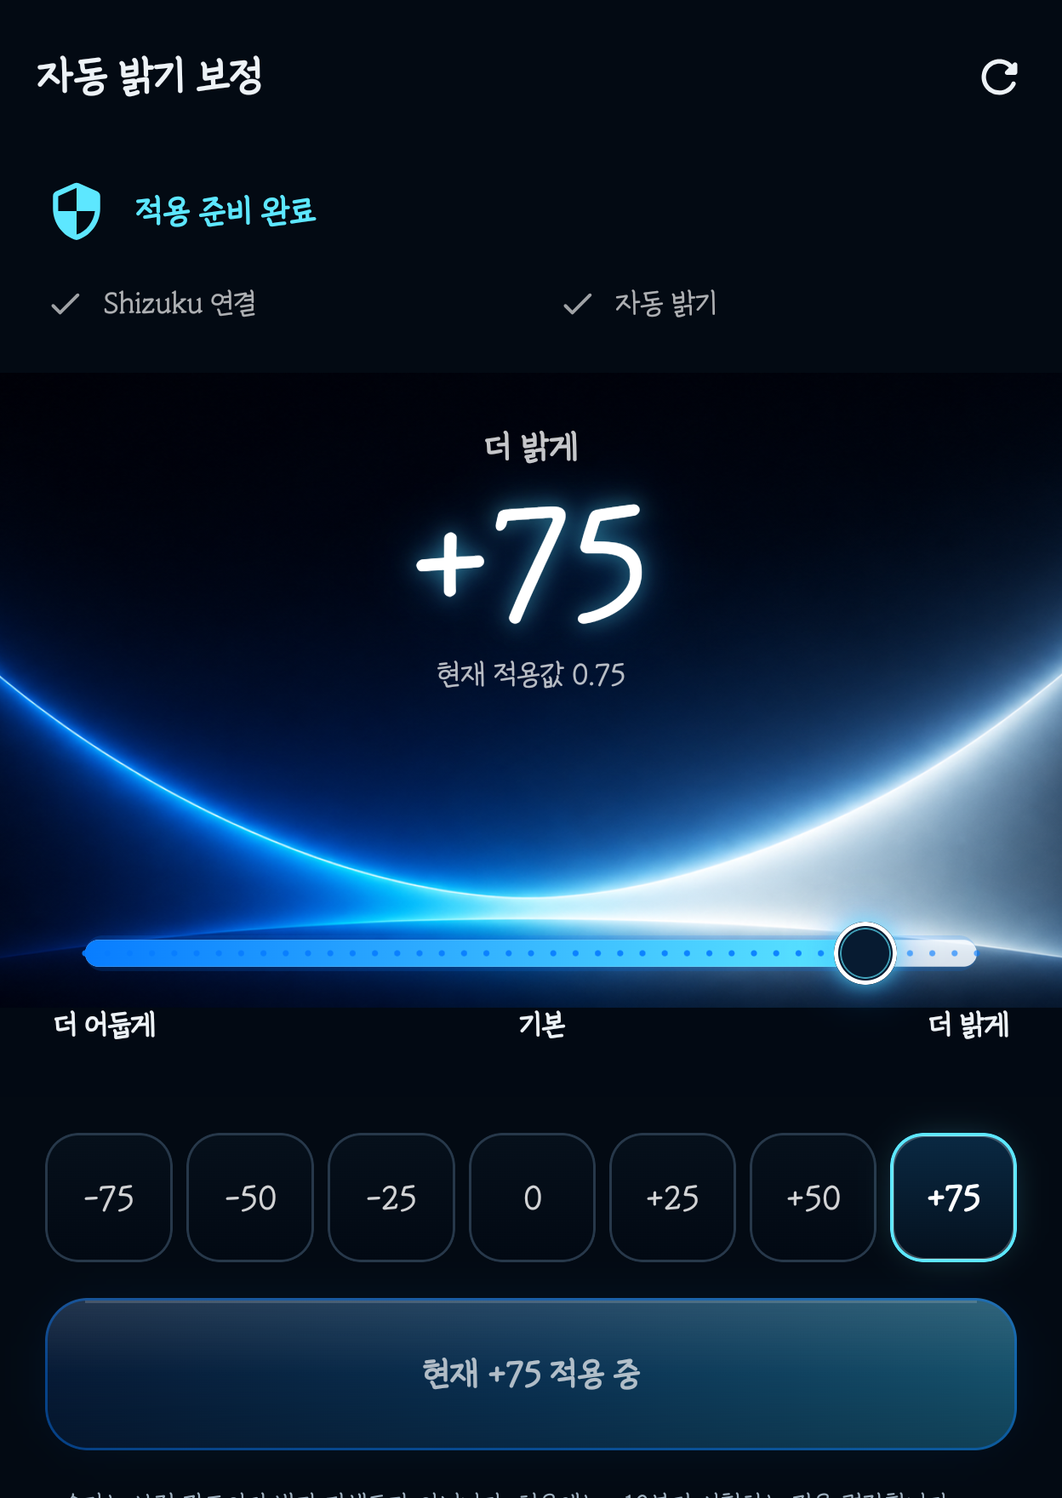
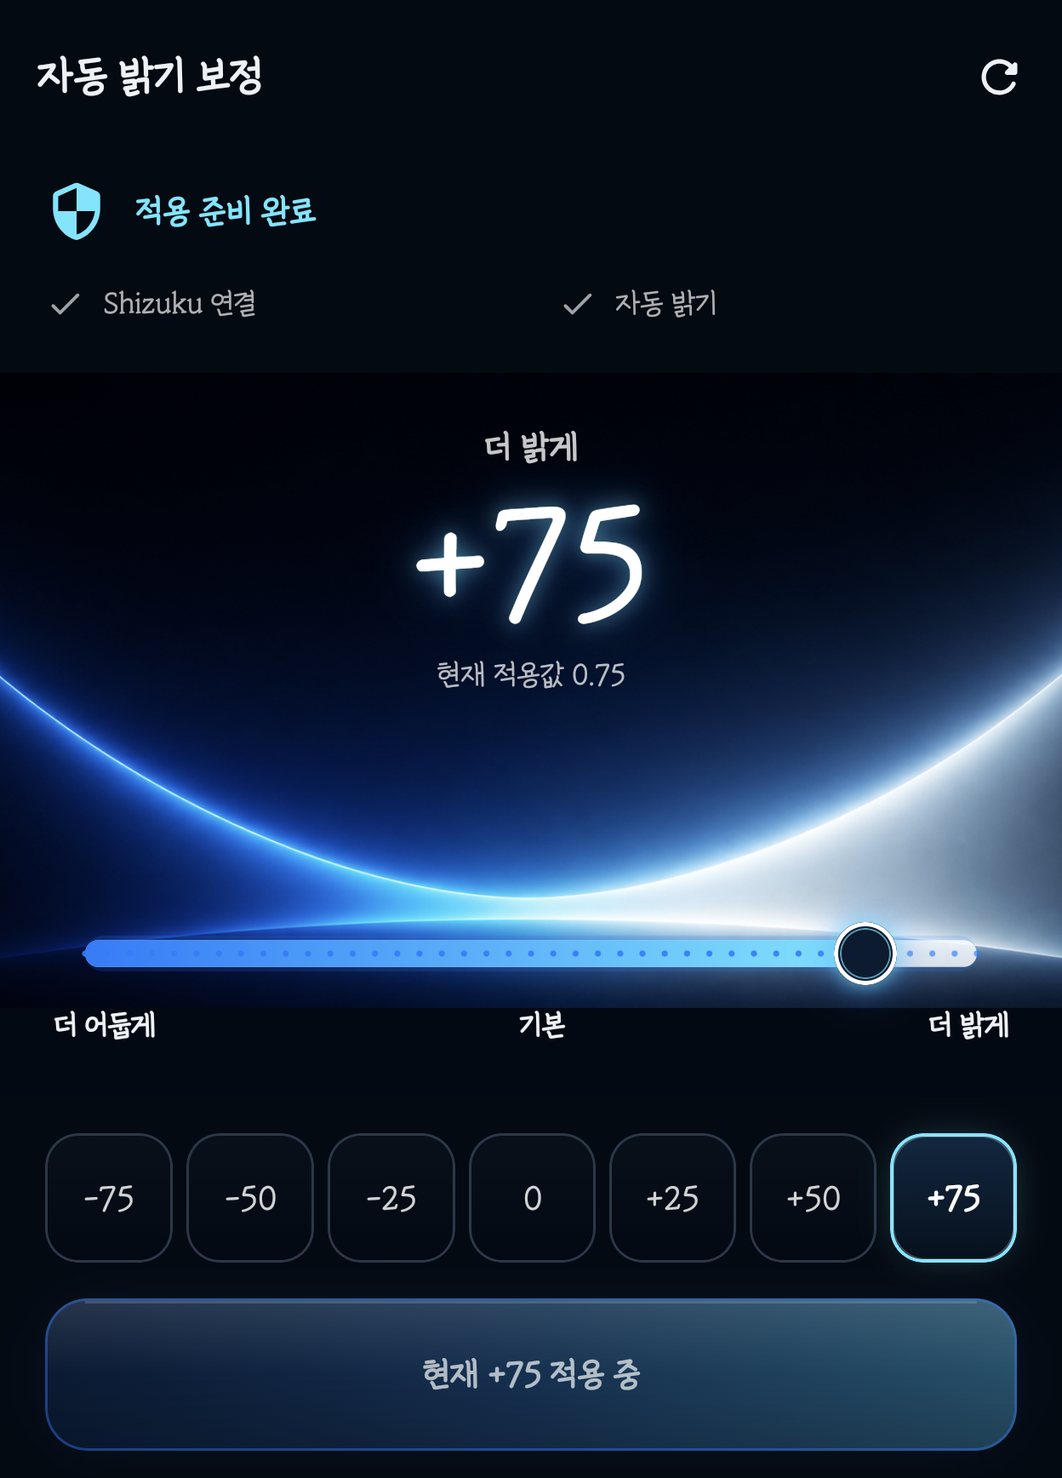
docs: complete v1.4.1 UI guide and screenshot verification

diff --git a/README.md b/README.md
@@ -9,8 +9,8 @@
   <img src="docs/images/app-home-en-v1.4.1.png" width="360" alt="Auto Brightness Offset English interface on Galaxy Z Fold8">
 </p>
 
-> 실제 Galaxy Z Fold8 화면입니다. 공개 이미지에서는 통신사·시간·알림·배터리·내비게이션 표시가 있는 시스템 영역만 잘랐습니다.<br>
-> These are real Galaxy Z Fold8 captures. Only the system status and navigation bars were cropped for privacy.
+> 실제 Galaxy Z Fold8의 v1.4.1 화면입니다. 시스템 상태·내비게이션 영역을 제외하고, 설명에 필요한 앱 영역만 원본 픽셀 그대로 잘랐습니다. 글꼴은 시험 단말의 시스템 글꼴입니다.<br>
+> Real v1.4.1 captures from a Galaxy Z Fold8. Crops exclude system bars and focus on the relevant app area without altering pixels. The screenshots use the test phone's system font.
 
 ## 한국어
 
@@ -62,6 +62,25 @@
 
 숫자는 화면 밝기 퍼센트가 아니라 **자동 밝기 곡선의 보정 강도**입니다. `0`을 적용하거나 `원래 값 복원`을 누르면 앱의 임시 보정이 해제되고 시스템 자동 밝기로 돌아갑니다.
 
+### 현재 UI와 버튼 상태
+
+v1.4.0에서 적용한 디자인을 v1.4.1에서도 사용하며, v1.4.1에는 연결 중단·복원 대기 표시가 추가됐습니다.
+
+- 숫자 이중 후광, 손잡이 후광, 손잡이 아래에서도 끊기지 않는 슬라이더
+- 숫자 뒤 중첩 사각형을 제거한 7단계 프리셋과 선택 테두리
+- 선택값을 바꿨을 때 밝게 표시되는 다층 그라데이션 적용 버튼
+- 선택값이 적용값과 같으면 `현재 +75 적용 중`처럼 표시하며 중복 적용을 막는 낮은 강조 상태
+- `보정 일시 중지`·`원래 값 복원 대기`는 정상 적용과 다른 문구·색으로 구분
+
+아래는 **0을 선택만 한 상태**입니다. 작은 `현재 적용값 0.75`가 실제 유지 중인 보정이고, 큰 `0`은 적용 대기 중인 선택값입니다. 밝은 버튼을 누르기 전까지 보정은 바뀌지 않습니다.
+
+<p align="center">
+  <img src="docs/images/app-select-offset-ko-v1.4.1.png" width="320" alt="v1.4.1 한국어: 0 선택, +75 적용 유지, 밝은 적용 버튼">
+  <img src="docs/images/app-select-offset-en-v1.4.1.png" width="320" alt="v1.4.1 English: zero selected, +75 still applied, enabled Apply button">
+</p>
+
+[화면별 상세 설명](docs/USER_GUIDE_KO.md#화면을-읽는-방법) · [현재 UI 검증 기록](design-qa.md)
+
 ### Wi-Fi 없는 야외 사용
 
 집에서 USB ADB로 Shizuku를 시작한 뒤에는 USB 케이블을 빼고 Wi-Fi와 무선 디버깅을 꺼도 Fold8에서 보정이 동작했습니다. 먼저 Shizuku와 이 앱을 모두 `배터리 → 제한 없음` 및 삼성의 `절전 상태로 전환하지 않을 앱`에 추가해야 합니다. 절전 예외 적용 뒤 Wi-Fi OFF 상태에서 화면을 켠 백그라운드 3분과 화면 잠금·재점등 시험을 통과했습니다.
@@ -91,7 +110,7 @@
 | 아이콘 축소판 설치·표시 | PASS |
 | Shizuku 중지 시 일시 중지·반복 오류 차단 | PASS |
 | 연결 끊김 중 복원 예약 → Shizuku 재시작·앱 열기 → 자동 복원 | PASS |
-| USB 시작 후 Wi-Fi·무선 디버깅 OFF 운용 | PASS |
+| 두 앱 절전 예외 후 Wi-Fi·무선 디버깅 OFF 운용 | PASS, 백그라운드 3분 및 화면 잠금·재점등 범위 |
 | Android 알림 권한 요청과 관리 알림 표시 | PASS |
 | 설치 APK와 기기 `base.apk` 해시 | PASS, 일치 |
 
@@ -146,6 +165,18 @@ See the illustrated [English setup and user guide](docs/USER_GUIDE_EN.md) for ev
 - No Internet permission, account, ads, analytics, or personal-data collection
 
 The number is a **curve-offset strength**, not a brightness percentage. Applying `0` or choosing **Restore original** clears the app's temporary override and returns control to system adaptive brightness.
+
+### Current UI and button states
+
+Version 1.4.1 retains the visual design introduced in 1.4.0 and adds explicit disconnected and pending-restore states.
+
+- Dual number glow, a glowing thumb, and a continuous slider track
+- Seven presets without the former overlapping rectangle behind each number
+- A brighter, layered-gradient Apply button when the selected value differs from the active offset
+- A subdued **Offset +75 active** button when no new value needs applying; this is a state indicator, not a missing visual effect
+- Distinct wording and colors for **Offset paused** and **Restore pending**
+
+In the selection screenshots above, the large **0** is a draft while **Applied value 0.75** remains active. Selecting a preset alone does not change the offset. See [how to read the screen](docs/USER_GUIDE_EN.md#reading-the-screen) and the [current UI verification record](design-qa.md).
 
 ### Outdoor use without Wi-Fi
 

diff --git a/design-qa.md b/design-qa.md
@@ -1,4 +1,44 @@
-# v1.4.0 Design QA
+# v1.4.1 Design QA · UI publication review
+
+## 2026-08-27 현행 공개본 확인
+
[1 lines of base64/hex data omitted]
+
+| 확인 항목 | 결과 |
+|---|---|
+| USB 분리 후 무선 ADB | PASS, 무선 단독 경로로 앱 버전·서비스 및 설치 APK 읽기 |
+| 숫자·손잡이 후광, 연속 트랙, 프리셋 | PASS, 현행 한국어 화면에서 확인 |
+| 적용 전/적용 중 버튼 | PASS, 초안 `0`과 실제 `+75`를 구분하고 두 버튼 상태를 한·영 화면으로 기록 |
+| 한국어·영어 설정 영역 | PASS, 재부팅 선택 OFF·복원·진단과 한계 안내를 실제 캡처로 확인 |
+| 공개 화면 픽셀 | PASS, 7개 출력이 각 원본의 지정 영역과 픽셀 차이 0 |
+| 기존 선택 이미지 손상 의심 | 재현 안 됨, 기존 원본과 공개 자르기 영역도 픽셀 차이 0; 이미지 손상으로 기록하지 않음 |
+| 디자인 문서 버전 | v1.4.0 이력은 보존하고 v1.4.1 현재 화면·상태 설명 추가 |
+| 휴대폰 설정 보존 | `+75` 관리와 재부팅 선택 OFF 유지, 영어 촬영 후 시스템 언어 추종으로 복귀 |
+
+### 현재 공개 화면
+
+- 적용 중: [한국어](docs/images/app-home-ko-v1.4.1.png), [English](docs/images/app-home-en-v1.4.1.png)
+- 선택만 한 상태: [한국어](docs/images/app-select-offset-ko-v1.4.1.png), [English](docs/images/app-select-offset-en-v1.4.1.png)
+- 하단 설정: [한국어](docs/images/app-settings-ko-v1.4.1.png), [English](docs/images/app-settings-en-v1.4.1.png)
+- [복원 대기](docs/images/app-restore-pending-ko-v1.4.1.png): 8월 26일 검증 빌드의 실제 상태 캡처를 유지하며, 이번에 서버를 중지해 재촬영하지는 않음
+
+v1.4.0의 디자인을 v1.4.1이 계승하며, 버튼의 낮은 강조는 적용값과 선택값이 같은 상태입니다. 이를 효과 누락으로 오해하지 않도록 README와 두 설명서에 명시했습니다. 폰의 사용자 지정 시스템 글꼴도 스크린샷에 반영되므로 시안의 글꼴과 다를 수 있습니다.
+
+### 재현 가능한 이미지 검증
+
+Windows에서 비공개 원본 캡처가 `build-evidence/`에 있을 때 실행합니다.
+
+```powershell
+.\scripts\export-ui-screenshots.ps1
+.\scripts\export-ui-screenshots.ps1 -Check
+.\scripts\export-ui-screenshots.ps1 -PublicOnly
+```
+
+스크립트는 [이미지 명세](docs/images/ui-screenshots-v1.4.1.json)의 원본 SHA-256·자르기 좌표·출력 SHA-256을 검사합니다. 리사이즈·덧칠 없이 잘라 저장한 뒤 모든 RGBA 픽셀을 대조합니다. 원본은 Git에 포함하지 않으며 픽셀 검사가 시각·기능 검토를 대신하지는 않습니다.
+
+`-PublicOnly`는 비공개 원본이나 그래픽 라이브러리 없이 공개 PNG 해시·규격과 앱·설명서 제목 버전을 확인합니다. GitHub Android CI에서도 이 모드를 실행합니다. 픽셀 원본 대조는 로컬에서 별도로 수행해야 합니다.
+
+## 이전 v1.4.0 검증 이력
 
 ## 비교 대상
 
@@ -33,6 +73,6 @@
 4. 기준 시안과 실기기 화면을 같은 비교 이미지에 넣어 숫자와 손잡이 후광이 약한 P2 차이를 확인하고 불투명도를 한 차례 높였습니다.
 5. 최종 실기기 캡처에서 P0/P1/P2 미해결 항목이 없음을 확인했습니다. 7개 프리셋이 시안의 4개보다 조밀한 것은 사용자 요청 기능을 반영한 의도된 차이입니다.
 
-## 최종 판정
+## v1.4.0 당시 판정
 
 final result: passed

diff --git a/docs/images/README.md b/docs/images/README.md
@@ -4,11 +4,12 @@ All images in this folder are documentation assets approved for the public repos
 
 | File | Source and use | Privacy treatment |
 |---|---|---|
-| `app-home-ko-v1.4.1.png` | Real Galaxy Z Fold8, installed v1.4.1 Release, Korean active screen | Cropped system status and navigation bars |
-| `app-home-en-v1.4.1.png` | Real Galaxy Z Fold8, installed v1.4.1 Release, app-only `en-US` locale | Cropped system status and navigation bars |
-| `app-select-offset-ko-v1.4.1.png` | Real Galaxy Z Fold8, installed v1.4.1 Release, offset selection | Cropped system status and navigation bars |
-| `app-settings-ko-v1.4.1.png` | Real Galaxy Z Fold8, installed v1.4.1 Release, Korean recovery/actions | Cropped to the app-only area |
-| `app-settings-en-v1.4.1.png` | Real Galaxy Z Fold8, installed v1.4.1 Release, English recovery/actions | Cropped to the app-only area |
+| `app-home-ko-v1.4.1.png` | Real Galaxy Z Fold8, installed v1.4.1 Release, Korean active screen, captured Aug 27 | Cropped system bars and the partially visible next paragraph |
+| `app-home-en-v1.4.1.png` | Real Galaxy Z Fold8, installed v1.4.1 Release, app-only `en-US`, complete Aug 26 source retained | Cropped system bars and the partially visible next paragraph |
+| `app-select-offset-ko-v1.4.1.png` | Real Galaxy Z Fold8, installed v1.4.1 Release, draft 0 while +75 remains active, Aug 27 | Exact app-only crop |
+| `app-select-offset-en-v1.4.1.png` | Real Galaxy Z Fold8, installed v1.4.1 Release, English draft 0 while +75 remains active, Aug 27 | Exact app-only crop |
+| `app-settings-ko-v1.4.1.png` | Real Galaxy Z Fold8, installed v1.4.1 Release, Korean settings with reboot choice OFF, Aug 27 | Cropped to the complete settings section |
+| `app-settings-en-v1.4.1.png` | Real Galaxy Z Fold8, installed v1.4.1 Release, English settings with reboot choice OFF, Aug 27 | Cropped to the complete settings section |
 | `app-restore-pending-ko-v1.4.1.png` | Real Galaxy Z Fold8, v1.4.1 verification build, Shizuku-disconnected restore queue | Cropped system status and navigation bars |
 | `app-home-ko-v1.4.0.png` | Real Galaxy Z Fold8, Korean main screen | Cropped system status and navigation bars |
 | `app-select-offset-ko-v1.4.0.png` | Real Galaxy Z Fold8, Korean offset selection | Cropped system status and navigation bars |
@@ -19,5 +20,7 @@ All images in this folder are documentation assets approved for the public repos
 | `shizuku-wireless-debugging-ko.png` | Real official Shizuku wireless-debugging controls | Cropped to the relevant setup card |
 
 The app screenshots preserve the captured UI. An AI-assisted privacy-crop experiment was rejected because it changed interface pixels; it is not included here. Final public screenshots use deterministic crops of actual captures.
+
+For v1.4.1, [the export manifest](ui-screenshots-v1.4.1.json) records raw-source hashes, crop rectangles, and public-output hashes. The Windows [export/check script](../../scripts/export-ui-screenshots.ps1) compares every RGBA pixel after saving; all seven outputs passed with zero changed pixels on Aug 27. Private raw screenshots are required for a local rerun and remain excluded from Git. A suspicion that the previous selection screenshot had lost text was ruled out by the same pixel comparison (zero differences).
 
 Shizuku is a separate application maintained by RikkaApps. These screenshots are used only to explain the interoperability setup. Refer to the [official Shizuku website](https://shizuku.rikka.app/) and [official repository](https://github.com/RikkaApps/Shizuku) for current information.

diff --git a/docs/USER_GUIDE_EN.md b/docs/USER_GUIDE_EN.md
@@ -148,6 +148,19 @@ This is a debug-signed personal-test package, not a Google Play production-signe
 
 If you denied access accidentally, open Shizuku's authorized-app list and allow Auto Brightness Offset there.
 
+### Reading the screen
+
+| Item | Meaning and example |
+|---|---|
+| Ready to apply | Shizuku and adaptive-brightness prerequisites are ready. This label alone does not mean offset management is active. |
+| Large number | Your selected draft. Choosing `0` does not clear an existing offset until you tap Apply. |
+| Applied value 0.75 | Active offset strength `+75` in internal units, not 75% panel brightness. |
+| Bright Apply selected offset button | The draft differs from the active offset and can be applied. |
+| Subdued Offset +75 active button | The draft already matches the active offset, so duplicate application is disabled. The lower emphasis is intentional. |
+| Offset paused / Restore pending | Do not interpret a saved number as active management. Restore Shizuku access and check the state again. |
+
+Number and thumb glows, the continuous track, seven presets, and the layered Apply button were introduced in 1.4.0. Version 1.4.1 adds clearer connection and restore states. Fonts can differ with the phone's system font.
+
 ## Stage 8 — Choose an offset
 
 ### Slider
@@ -161,6 +174,10 @@ If you denied access accidentally, open Shizuku's authorized-app list and allow 
 ### Quick presets
 
 Choose `-75`, `-50`, `-25`, `0`, `+25`, `+50`, or `+75` with one tap.
+
+![Zero selected while +75 remains active](images/app-select-offset-en-v1.4.1.png)
+
+This screenshot shows a **draft of 0**, while **Applied value 0.75** is still active. Select `+75` again to discard the draft without applying a change.
 
 Start with a small value such as `+10` or `-10`. Values from `+75` to `+100` and `-75` to `-100` are intentionally strong.
 
@@ -182,7 +199,7 @@ If the first change is subtle, move in 5- or 10-point steps. Samsung brightness 
 After a reboot:
 
 1. Open Shizuku.
-2. Start Shizuku again through wireless debugging.
+2. Start Shizuku again through wireless debugging or the USB ADB procedure in Stage 5.
 3. Open Auto Brightness Offset.
 4. Confirm **Ready to apply** and the active value.
 
@@ -249,7 +266,7 @@ The report is not designed to contain accounts, passwords, photos, or screen con
 
 - The app has no Internet permission.
 - It uses no account, ads, analytics, location, camera, microphone, or contacts.
-- It stores only management state, the last offset, and the reapply-after-reboot choice.
+- It stores management state, the last offset, the reapply-after-reboot choice, pending restore, and notification-prompt state locally. See [Privacy and permissions](PRIVACY.md) for the complete list.
 - It does not save or transmit ambient-light history or screen content.
 - Shizuku's own behavior and networking follow Shizuku's policies.
 - Exempting both apps from battery restrictions allows longer background operation and may use more battery than the default policy.

diff --git a/docs/DEBUG_LEDGER.md b/docs/DEBUG_LEDGER.md
@@ -1,5 +1,17 @@
 # 디버그·재발방지 대장
 
+## DBG-014 현행 UI와 공개 설명의 버전·상태 설명 불일치
+
+- 증상: v1.4.1이 공개됐지만 디자인 QA 제목은 v1.4.0에 머물고, README와 한·영 안내에 적용 전/중 버튼의 강조 차이가 충분히 설명되지 않음
+- 재현 방법: 설치 APK·Release 해시를 대조한 뒤 README, 디자인 QA 제목, 한·영 선택 화면 설명을 비교
+- 직접 원인: 기능 릴리스 체크리스트에 기존 시각 변경의 계승 여부와 선택값/적용값 설명 확인이 빠짐
+- 확인 증거: 조사 시작 시 로컬·원격 main은 같은 커밋, 설치 APK와 공개 APK의 SHA-256도 일치. UI 소스 누락이 아니라 문서 보완 항목으로 확인
+- 영향 범위: 공개 README, 한·영 상세 설명서, 디자인 QA와 Release 설명; 앱 기능·버전에는 변경 없음
+- 잘못된 기존 접근: APK 게시만으로 기존 UI 변경과 현재 화면 상태 설명도 충분히 전달됐다고 판단. 이미지 미리보기만 보고 손상을 단정하지 않아야 함
+- 수정 내용: 현행 UI 안내, 선택 초안 0/실제 적용 +75 구분, 영어 선택 화면, 이미지 원본·출력 해시와 자르기 명세 추가
+- 자동 재발방지 장치: 공개 PNG 해시·크기와 앱/설명서 제목 버전을 확인하는 CI 단계, 비공개 원본과의 로컬 RGBA 전체 비교
+- 재시험 결과: 7개 자르기 출력 모두 픽셀 차이 0, 공개 자료 검사 PASS, 1픽셀 변경을 의도적으로 넣은 비교 입력은 차이 1로 탐지 PASS. 기존 선택 이미지도 원본과 차이 0으로 손상 의심 배제
+
 ## DBG-001 한글 프로젝트 경로 빌드 차단
 
 - 증상: Android Gradle Plugin 적용 단계에서 빌드 중단

diff --git a/HANDOVER.md b/HANDOVER.md
@@ -2,6 +2,17 @@
 
 ## 현재 상태
 
+### 2026-08-27 UI 공개 자료 후속 점검
+
+- USB를 분리한 무선 ADB 단독 연결로 설치 APK를 읽었으며 공개 v1.4.1과 SHA-256 일치
+- UI 소스·APK는 이미 공개되어 있었고, v1.4.0에 머문 디자인 QA와 적용 전/중 화면 설명을 보완
+- 한·영 적용/선택/설정과 기존 복원 대기 화면 7개의 자르기 좌표·원본/출력 해시·픽셀 동일성 검사 추가
+- 현재 사용자 상태: `+75` 적용 중, 재부팅 선택 OFF, 시스템 언어 추종. 확인·촬영 후 이 상태를 유지
+- 무선 디버깅 ON, Wi-Fi ON, USB 케이블 분리. 사설 주소·포트·페어링 코드는 공개 기록에 남기지 않음
+- APK·버전·기능 태그는 그대로 유지하며 README·한영 설명서·디자인 QA·Release 설명만 갱신
+
+### 2026-08-26 배포 직후 상태 (이력 보존)
+
 v1.4.1은 Galaxy Z Fold8에서 실제 밝기 보정과 Shizuku 연결 중단·복원 흐름이 동작합니다. 공식 Shizuku UserService로 삼성 자동 밝기 곡선을 조회해 임시 패널 밝기를 적용하고, Shizuku가 중지되면 센서 추적을 멈추고 `보정 일시 중지`로 전환합니다. 연결이 끊긴 상태의 복원 요청은 예약되며 Shizuku를 시작하고 앱을 열면 자동 완료됩니다.
 
 현재 Fold8는 사용자가 선택해 둔 `+50` 관리 상태입니다. Shizuku v13.6.0을 USB ADB로 시작했고, v1.4.1 최종 Release APK를 설치했습니다. Android 알림 권한을 허용했으며 재부팅 후 재적용도 다시 켰습니다. Shizuku와 자동 밝기 보정은 삼성 배터리 제한 예외 및 active standby bucket 상태입니다.

diff --git a/docs/PUBLICATION_AUDIT_v1.4.1.md b/docs/PUBLICATION_AUDIT_v1.4.1.md
@@ -46,6 +46,19 @@
 | 최종 Release Fold8 설치 | PASS |
 | 설치 `base.apk`와 로컬 APK SHA-256 | PASS, 일치 |
 
+## 2026-08-27 UI 공개 자료 후속 검증
+
+- 범위: README, 한·영 상세 설명서, 디자인 QA, 이미지, Release 설명 및 문서 회귀검사. 앱 소스·APK·태그는 변경하지 않음
+- USB 분리 후 무선 ADB 단독으로 설치 APK를 읽어 아래 공개 APK 해시와 동일함을 재확인
+- 한·영 적용/선택/설정 및 기존 복원 대기 화면 총 7개: 원본 지정 영역과 RGBA 픽셀 차이 0, PNG 해시·규격 검사 PASS
+- 비교기 음성시험: 합성 RGBA 입력의 1픽셀 변경을 차이 1로 탐지 PASS
+- 공개 CI 검사: 비공개 원본 없이 PNG 해시·규격, 앱 버전과 현행 문서 제목을 비교하도록 추가. 로컬 실행 PASS
+- 변경 문서의 로컬 링크·이미지 73개 존재 확인 PASS. 변경 공개 텍스트의 사설 주소·로컬 사용자 경로·토큰·개인 키·페어링 정보 패턴 검사 검출 0건
+- 시각·사용성 검토: 한·영 선택 화면의 초안/적용값과 버튼 상태, 설정 화면의 OFF 상태·복원·진단 안내 확인. 앱 코드·버전 변경 0건
+- 사용 중인 +75 보정, 재부팅 재적용 OFF, 시스템 언어 추종을 보존. 확인 중 서버 중지·보정 재적용·앱 재설치 없음
+- 새로운 장시간 야외·HDR·접힘/펼침 시험은 수행하지 않음. 기존 시험 결과와 한계를 그대로 유지
+- 원격 반영과 신규 CI 결과는 게시 후 아래에 추가 기록
+
 ## 공개 APK
 
 - 파일: `AutoBrightnessOffset-v1.4.1-release.apk`

diff --git a/docs/INDEX.md b/docs/INDEX.md
@@ -7,11 +7,13 @@
 | [USER_GUIDE_EN](USER_GUIDE_EN.md) | Illustrated English setup, Shizuku, operation, and recovery guide |
 | [PUBLICATION_AUDIT_v1.4.1](PUBLICATION_AUDIT_v1.4.1.md) | v1.4.1 공개 전후 개인정보·산출물·시험·링크 감사 결과 |
 | [Public image inventory](images/README.md) | README·상세 설명서 공개 이미지의 출처와 개인정보 처리 |
+| [UI screenshot manifest](images/ui-screenshots-v1.4.1.json) | v1.4.1 원본·출력 해시와 자르기 좌표 |
+| [Screenshot export/check](../scripts/export-ui-screenshots.ps1) | 원본 픽셀 보존 자르기와 전체 픽셀·해시 자동 검사 |
 | [DEVICE_TEST_PLAN](DEVICE_TEST_PLAN.md) | 폴드8 실기기 시험과 합격 기준 |
 | [PRIVACY](PRIVACY.md) | 권한, 저장 데이터, 네트워크 정책 |
 | [DEBUG_LEDGER](DEBUG_LEDGER.md) | 증상·원인·수정·재발방지 기록 |
 | [PROJECT_HISTORY](PROJECT_HISTORY.md) | 결정·구현·검증 누적이력 |
-| [DESIGN_QA](../design-qa.md) | v1.4.x 기준 시안과 Fold8 실화면 비교·판정 |
+| [DESIGN_QA](../design-qa.md) | v1.4.1 공개 UI 정합성·화면 상태·픽셀 검증과 v1.4.0 비교 이력 |
 | [RELEASE_NOTES_v1.4.1](RELEASE_NOTES_v1.4.1.md) | v1.4.1 Shizuku 연결 복구·복원 대기·알림 권한과 설치파일 |
 | [RELEASE_NOTES_v1.4.0](RELEASE_NOTES_v1.4.0.md) | v1.4.0 UI·기능 검증과 설치파일 |
 | [RELEASE_NOTES_v1.1.0](RELEASE_NOTES_v1.1.0.md) | v1.1.0 한국어·영어 기능·검증·설치파일 |

diff --git a/docs/PROJECT_HISTORY.md b/docs/PROJECT_HISTORY.md
@@ -1,5 +1,16 @@
 # 누적 작업이력
 
+## 2026-08-27 · UI 공개 자료 정합성 보완
+
+- USB 분리 후 무선 ADB 단독 경로에서 설치 APK를 읽어 공개 v1.4.1 SHA-256과 일치 확인
+- 미푸시 UI 코드나 다른 설치 APK는 없음을 확인하고, 기능 변경 없이 문서·화면 자료 범위로 한정
+- v1.4.0에 머문 디자인 QA를 현행 v1.4.1 기준으로 보완하고 이전 검증 이력은 보존
+- 한·영 README·상세 설명서·Release 설명에 숫자/손잡이 후광, 연속 막대, 7개 프리셋, 버튼 활성/비활성 상태와 구현 버전을 명시
+- 초안 `0` 선택과 실제 `+75` 적용을 구분하는 영어 화면 추가 및 공개 이미지 7개의 원본 픽셀 일치 검사 PASS
+- 기존 선택 이미지 손상 의심은 원본 대조 0픽셀 차이로 배제; 실제 UI 손상으로 단정하지 않음
+- 비공개 원본 없이도 공개 PNG 해시·규격·문서 버전을 검사하는 GitHub CI 단계 추가
+- 사용자 `+75`, 재부팅 선택 OFF, 시스템 언어 추종 상태를 보존하며 앱 버전·APK·기능 태그는 유지
+
 ## 2026-08-26 · v1.4.1 공개 배포 완료
 
 - Public 저장소 `main`에 기능·문서 커밋 `e4de65679da8241427833c9c02ef8e4cec824254` 푸시
